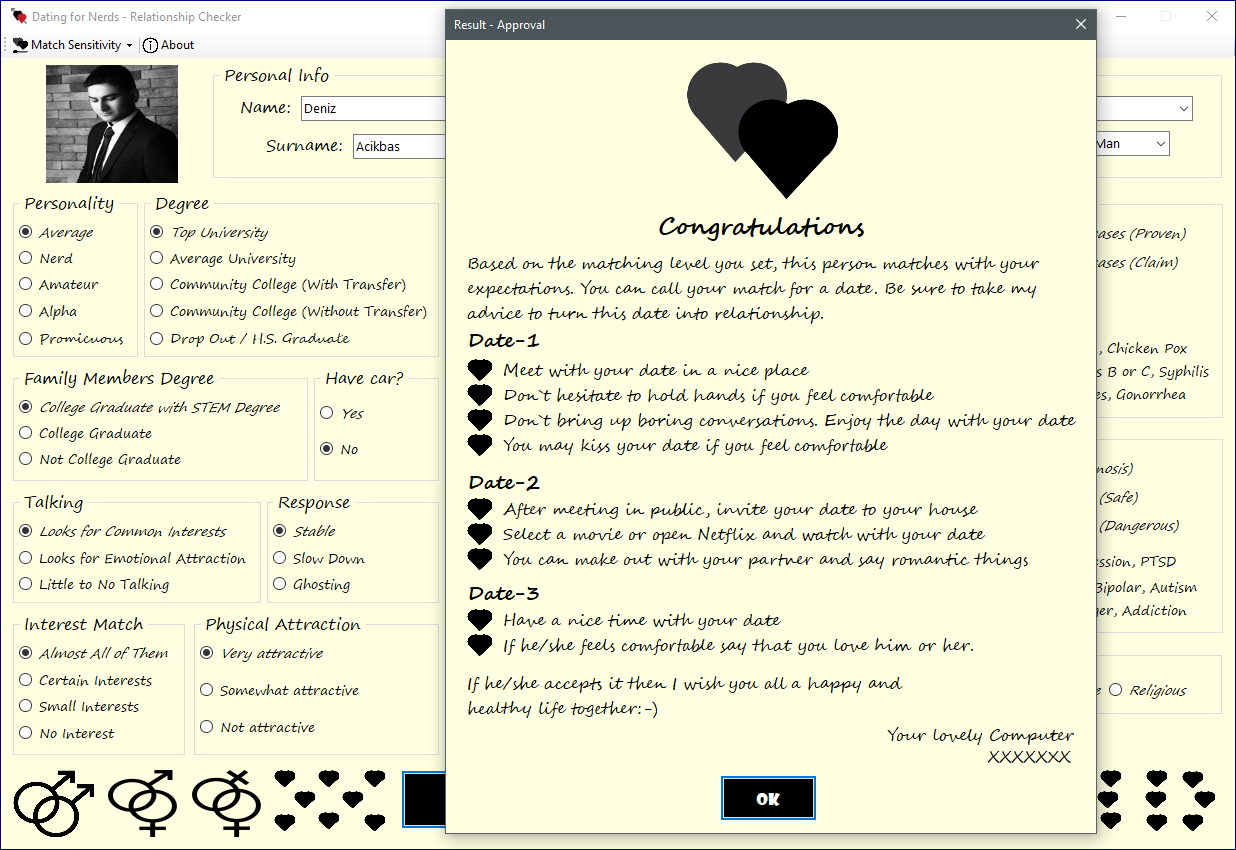
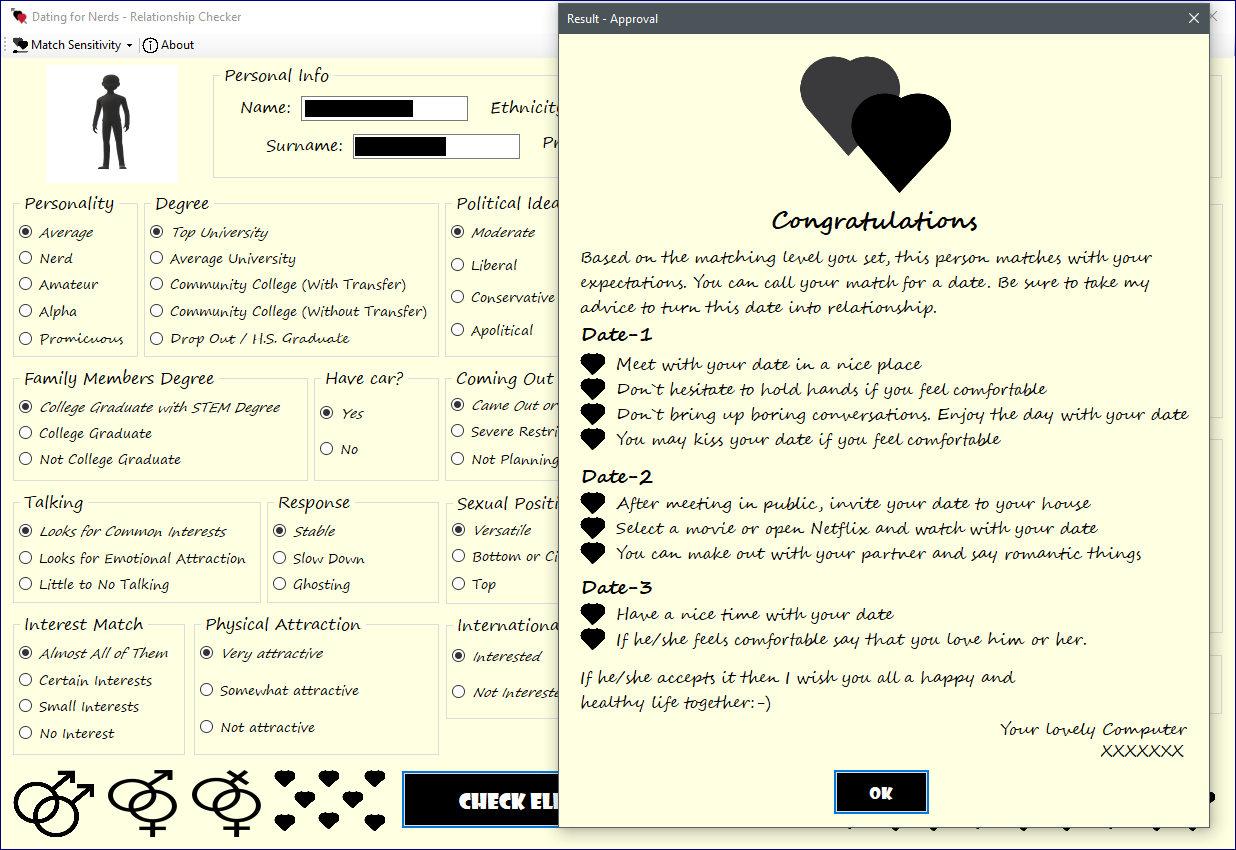
commitment

Changed region(s): [[0.246, 0.0, 0.9838, 1.0], [0.0307, 0.0612, 0.1537, 0.2141]]

diff --git a/projects.html b/projects.html
@@ -23,161 +23,187 @@
         <li id="list"><a href="resume.html">Resume</a></li>
         <li style="float:right"><a class="deniz" href="index.html">Deniz K Acikbas</a></li>
     </ul>
-        <img style="margin-bottom: 0;" src="projects/xase.png" class="center ">
-        <div class="xase">
-            <h1 style="color:white; font-size: 50px;  margin-bottom: 0;">Xase</h1>
-            <p style="color: white; font-size: 20px;   margin: 0; padding-top: 0;"><b>Developers Without Limits Studio</b></p>
-            <p style="color: white; font-size: 16px;   margin: 0; padding-top: 0;"><em>Released in August 8th 2021</em></p>
-            <ul class="about" style="color:white; font-size: 20px;">
-                <li>Analyzed the information provided by Summer 2021 Studio applicants and conducted a research about the verification of applicants.</li>
-                <li>Collaborated as Front-End and Back-End developer while other developers were working on UI and Database Design to build a database program which helps employers to select the best candidate for software engineering positions.</li>
-                <li>Developed DataGrind View, Eligibility Checker, Applicant Selector, Search/Sort and Tooltips using Windows Forms, MySQL and C#.</li>
-                <li>Published the project on GitHub.</li>
-            </ul>
-            <a href="https://github.com/Developers-Without-Limits-Studio/Xase" class="button">See the project</a>
-        </div>
-        <img style="margin-bottom: 0;" src="projects/children_market.png" class="center_2">
-        <div class="xase">
-            <h1 style="color:white; font-size: 50px;  margin-bottom: 0;">Children`s Market</h1>
-            <p style="color: white; font-size: 20px;   margin: 0; padding-top: 0;"><b>SelfieHacks, Major League Hacking </b></p>
-            <p style="color: white; font-size: 16px;   margin: 0; padding-top: 0;"><em>Released in August 1st 2021</em></p>
-            <ul class="about" style="color:white; font-size: 20px;">
-                <li>Developed a simple cashier software for kids who are selling fruits and vegetables on the street to help them to learn how to calculate the price with taxes, register each product, and print a receipt for their customers.</li>
-                <li>Collaborated as a full-stack developer.</li>
-                <li>Developed the project in Windows Forms, MySQL, and C# and published on Devpost and GitHub.</li>
-            </ul>
-            <a href="https://github.com/denizkarya1999/children_market_cashier_software" class="button">See the project</a>
-        </div>
-        <img style="margin-bottom: 0;" src="projects/hirex.png" class="center_2">
-        <div class="xase">
-            <h1 style="color:white; font-size: 50px;  margin-bottom: 0;">Hirex</h1>
-            <p style="color: white; font-size: 20px;   margin: 0; padding-top: 0;"><b>Personal Project</b></p>
-            <p style="color: white; font-size: 16px;   margin: 0; padding-top: 0;"><em>Released in July 30th 2021</em></p>
-            <ul class="about" style="color:white; font-size: 20px;">
-                <li>Conducted a research on the challenges that the underrepresented minority students face while getting a job and the skills that the companies look for when hiring.</li>
-                <li>Collaborated as Full Stack developer to build a database program for employers to hire underrepresented minority students easily for internship positions.</li>
-                <li>Developed the entire application using Windows Forms, MySQL and C#.</li>
-                <li>Published the project on GitHub.</li>
-            </ul>
-            <a href="https://github.com/denizkarya1999/hirex" class="button">See the project</a>
-        </div>
-        <img style="margin-bottom: 0;" src="projects/90_music.png" class="center_2">
-        <div class="xase">
-            <h1 style="color:white; font-size: 50px;  margin-bottom: 0;">90`s Music</h1>
-            <p style="color: white; font-size: 20px;   margin: 0; padding-top: 0;"><b>Personal Project</b></p>
-            <p style="color: white; font-size: 16px;   margin: 0; padding-top: 0;"><em>Released in July 24th 2021</em></p>
-            <ul class="about" style="color:white; font-size: 20px;">
-                <li>Brainstormed on a kiosk application which plays music released between 1990 and 1993 and provides information about each artist.</li>
-                <li>Collaborated as both Front-End and Back-End developer.</li>
-                <li>Developed the entire application using XAML, UWP and C#.</li>
-                <li>Published the project on GitHub.</li>
-            </ul>
-            <a href="https://github.com/denizkarya1999/90-s-Music" class="button">See the project</a>
-        </div>
-        <img style="margin-bottom: 0;" src="projects/travelery.png" class="center_2">
-        <div class="xase">
-            <h1 style="color:white; font-size: 50px;  margin-bottom: 0;">Travelery</h1>
-            <p style="color: white; font-size: 20px;   margin: 0; padding-top: 0;"><b>Bon Voyage Hacks, Major League Hacking</b></p>
-            <p style="color: white; font-size: 16px;   margin: 0; padding-top: 0;"><em>Released in July 18th 2021</em></p>
-            <ul class="about" style="color:white; font-size: 20px;">
-                <li>Brainstormed on a travel application to make international travel more convenient by providing users a map of popular landmarks, flight and customs videos and a To-Do list.</li>
-                <li>Collaborated as both Front-End and Back-End developer to build most parts of the application while the other team member was building the To-Do List page.</li>
-                <li>Created Home, Maps and Videos pages specifically for the UK, USA and Turkey using XAML, UWP and C#.</li>
-                <li>Published the project on both Devpost and GitHub.</li>
-            </ul>
-            <a href="https://github.com/denizkarya1999/Travelery" class="button">See the project</a>
-        </div>
-        <img style="margin-bottom: 0;" src="projects/husky.jpg" class="center_2">
-        <div class="xase">
-            <h1 style="color:white; font-size: 50px;  margin-bottom: 0;">Project Husky</h1>
-            <p style="color: white; font-size: 20px;   margin: 0; padding-top: 0;"><b>Developers Without Limits Studio</b></p>
-            <p style="color: white; font-size: 16px;   margin: 0; padding-top: 0;"><em>Released in June 30th 2021</em></p>
-            <ul class="about" style="color:white; font-size: 20px;">
-                <li>Founded the University of Michigan-Dearborn`s first app development studio.</li>
-                <li>Managed a team of 14 developers to build a financial application is designed with cryptocurrency investors in mind.</li>
-                <li>Created 12 UI Mockups and 8 application pages using Adobe XD, XAML, UWP and C#.</li>
-                <li>Achieved team management skills while leading the studio.</li>
-            </ul>
-            <a href="https://github.com/Developers-Without-Limits-Studio/project-husky" class="button">See the project</a>
-        </div>
-        <img style="margin-bottom: 0;" src="projects/queer.png" class="center_2">
-        <div class="xase">
-            <h1 style="color:white; font-size: 50px;  margin-bottom: 0;">Queer Hub</h1>
-            <p style="color: white; font-size: 20px;   margin: 0; padding-top: 0;"><b>PrideHacks, Major League Hacking</b></p>
-            <p style="color: white; font-size: 16px;   margin: 0; padding-top: 0;"><em>Released in June 27th 2021</em></p>
-            <ul class="about" style="color:white; font-size: 20px;">
-                <li>Brianstormed on an application to provide LGBTQ+ individuals some safety videos, list of safe countries, tips to come out and STD prevention services.</li>
-                <li>Collaborated as both Front-End and Back-End developer and helped the other team member to transition from Kotlin to C#.</li>
-                <li>Created Safety Videos, Safe Country List, Coming Out Advisor and STD Risk Calculator pages using XAML, UWP and C#.</li>
-                <li>Published the project on both Devpost and GitHub.</li>
-            </ul>
-            <a href="https://github.com/denizkarya1999/queer_hub" class="button">See the project</a>
-        </div>
-        <img style="margin-bottom: 0;" src="projects/math.png" class="center_2">
-        <div class="xase">
-            <h1 style="color:white; font-size: 50px;  margin-bottom: 0;">Math for Kids</h1>
-            <p style="color: white; font-size: 20px;   margin: 0; padding-top: 0;"><b>Surfs Up Hacks, Major League Hacking</b></p>
-            <p style="color: white; font-size: 16px;   margin: 0; padding-top: 0;"><em>Released in June 13th 2021</em></p>
-            <ul class="about" style="color:white; font-size: 20px;">
-                <li>Brainstormed on a math application to help children to learn math by generating problems and giving scores based on the problems they solved.</li>
-                <li>Collaborated as both Front-End and Back-End developer and helped the other team member to learn .NET Framework and C#</li>
-                <li>Created the Calculator, Inkspace and About using XAML, UWP and C#.</li>
-                <li>Published the project on both Devpost and GitHub.</li>
-            </ul>
-            <a href="https://github.com/denizkarya1999/math_for_kids" class="button">See the project</a>
-        </div>
-        <img style="margin-bottom: 0;" src="projects/calculator.png" class="center_2">
-        <div class="xase">
-            <h1 style="color:white; font-size: 50px;  margin-bottom: 0;">X Calculator</h1>
-            <p style="color: white; font-size: 20px;   margin: 0; padding-top: 0;"><b>Personal Project</b></p>
-            <p style="color: white; font-size: 16px;   margin: 0; padding-top: 0;"><em>Released in June 3th 2021</em></p>
-            <ul class="about" style="color:white; font-size: 20px;">
-                <li>Brainstormed on a simple desktop calculator to make calculations easier.</li>
-                <li>Collaborated both as Front-End and Back-End developer.</li>
-                <li>Developed the entire application using XAML, WPF and C#.</li>
-                <li>Published the project on GitHub.</li>
-            </ul>
-            <a href="https://github.com/denizkarya1999/x_calculator" class="button">See the project</a>
-        </div>
-        <img style="margin-bottom: 0;" src="projects/covid.png" class="center_2">
-        <div class="xase">
-            <h1 style="color:white; font-size: 50px;  margin-bottom: 0;">COVID-19 Risk Calculator</h1>
-            <p style="color: white; font-size: 20px;   margin: 0; padding-top: 0;"><b>Hack-cade, Major League Hacking</b></p>
-            <p style="color: white; font-size: 16px;   margin: 0; padding-top: 0;"><em>Released in May 30th 2021</em></p>
-            <ul class="about" style="color:white; font-size: 20px;">
-                <li>Conducted research on transmission of COVID-19 Disease and analyzed the likelihood of transmission based on certain activities, case reports and prevention methods.</li>
-                <li>Collaborated as both Front-End and Back-End developer.</li>
-                <li>Developed a multi form application that has the user enter potential exposure and analyzes the risk to determine if the user should get tested or not using XAML, UWP and C#.</li>
-                <li>Published the project on GitHub.</li>
-            </ul>
-            <a href="https://github.com/denizkarya1999/covid-19_risk_calculator" class="button">See the project</a>
-        </div>
-        <img style="margin-bottom: 0;" src="projects/std.png" class="center_2">
-        <div class="xase">
-            <h1 style="color:white; font-size: 50px;  margin-bottom: 0;">STD Risk Calculator</h1>
-            <p style="color: white; font-size: 20px;   margin: 0; padding-top: 0;"><b>Personal Project</b></p>
-            <p style="color: white; font-size: 16px;   margin: 0; padding-top: 0;"><em>Released in May 27th 2021</em></p>
-            <ul class="about" style="color:white; font-size: 20px;">
-                <li>Conducted research on transmission of sexually transmitted diseases and analyzed the likelihood of transmission based on certain sexual activities, case reports and prevention methods.</li>
-                <li>Collaborated as both Front-End and Back-End developer.</li>
-                <li>Developed a multi form application that has the user enter potential exposure and analyzes the risk to determine if the user should get tested or not using XAML, UWP and C#.</li>
-                <li>Published the project on both Devpost and GitHub.</li>
-            </ul>
-            <a href="https://github.com/denizkarya1999/std_risk_calculator" class="button">See the project</a>
-        </div>
-        <img style="margin-bottom: 0;" src="projects/player.png" class="center_2">
-        <div class="xase">
-            <h1 style="color:white; font-size: 50px;  margin-bottom: 0;">X Player</h1>
-            <p style="color: white; font-size: 20px;   margin: 0; padding-top: 0;"><b>Personal Project</b></p>
-            <p style="color: white; font-size: 16px;   margin: 0; padding-top: 0;"><em>Released in May 21st 2021</em></p>
-            <ul class="about" style="color:white; font-size: 20px;">
-                <li>Brainstormed on a simple media player to select music from local drive and play when having a shower.</li>
-                <li>Collaborated both as Front-End and Back-End developer.</li>
-                <li>Developed the entire application using Windows Forms and C#.</li>
-                <li>Published the project on GitHub.</li>
-            </ul>
-            <a href="https://github.com/denizkarya1999/x_player" class="button">See the project</a>
-        </div>
+    <img style="margin-bottom: 0;" src="projects/password_generator.png" class="center ">
+    <div class="xase">
+        <h1 style="color:white; font-size: 50px;  margin-bottom: 0;">Password Generator</h1>
+        <p style="color: white; font-size: 20px;   margin: 0; padding-top: 0;"><b>Personal Project</b></p>
+        <p style="color: white; font-size: 16px;   margin: 0; padding-top: 0;"><em>Released in May 5th 2022</em></p>
+        <ul class="about" style="color:white; font-size: 20px;">
+            <li>Inspired from the coding challenges and built-in password generators on my PC.</li>
+            <li>Collaborated as both Front-End and Back-End developer.</li>
+            <li>Developed the entire application using Windows Forms and C#.</li>
+            <li>Published the project on GitHub.</li>
+        </ul>
+        <a href="https://github.com/denizkarya1999/password_generator" class="button">See the project</a>
+    </div>
+    <img style="margin-bottom: 0;" src="projects/dating.png" class="center ">
+    <div class="xase">
+        <h1 style="color:white; font-size: 50px;  margin-bottom: 0;">Dating for Nerds</h1>
+        <p style="color: white; font-size: 20px;   margin: 0; padding-top: 0;"><b>Personal Project</b></p>
+        <p style="color: white; font-size: 16px;   margin: 0; padding-top: 0;"><em>Released in January 22nd 2022</em></p>
+        <ul class="about" style="color:white; font-size: 20px;">
+            <li>Conducted research on people who use dating apps to find their partner.</li>
+            <li>Collaborated as Full Stack developer to build a program to help people select their partners based on certain criteria's such as their college degree, profits and text responds.</li>
+            <li>Developed the entire application using Windows Forms and C#.</li>
+            <li>Published the project on GitHub.</li>
+        </ul>
+        <a href="https://github.com/denizkarya1999/dating_for_nerds" class="button">See the project</a>
+    </div>
+    <img style="margin-bottom: 0;" src="projects/xase.png" class="center ">
+    <div class="xase">
+        <h1 style="color:white; font-size: 50px;  margin-bottom: 0;">Xase</h1>
+        <p style="color: white; font-size: 20px;   margin: 0; padding-top: 0;"><b>Developers Without Limits Studio</b></p>
+        <p style="color: white; font-size: 16px;   margin: 0; padding-top: 0;"><em>Released in August 8th 2021</em></p>
+        <ul class="about" style="color:white; font-size: 20px;">
+            <li>Analyzed the information provided by Summer 2021 Studio applicants and conducted a research about the verification of applicants.</li>
+            <li>Collaborated as Front-End and Back-End developer while other developers were working on UI and Database Design to build a database program which helps employers to select the best candidate for software engineering positions.</li>
+            <li>Developed DataGrind View, Eligibility Checker, Applicant Selector, Search/Sort and Tooltips using Windows Forms, MySQL and C#.</li>
+            <li>Published the project on GitHub.</li>
+        </ul>
+        <a href="https://github.com/Developers-Without-Limits-Studio/Xase" class="button">See the project</a>
+    </div>
+    <img style="margin-bottom: 0;" src="projects/children_market.png" class="center_2">
+    <div class="xase">
+        <h1 style="color:white; font-size: 50px;  margin-bottom: 0;">Children`s Market</h1>
+        <p style="color: white; font-size: 20px;   margin: 0; padding-top: 0;"><b>SelfieHacks, Major League Hacking </b></p>
+        <p style="color: white; font-size: 16px;   margin: 0; padding-top: 0;"><em>Released in August 1st 2021</em></p>
+        <ul class="about" style="color:white; font-size: 20px;">
+            <li>Developed a simple cashier software for kids who are selling fruits and vegetables on the street to help them to learn how to calculate the price with taxes, register each product, and print a receipt for their customers.</li>
+            <li>Collaborated as a full-stack developer.</li>
+            <li>Developed the project in Windows Forms, MySQL, and C# and published on Devpost and GitHub.</li>
+        </ul>
+        <a href="https://github.com/denizkarya1999/children_market_cashier_software" class="button">See the project</a>
+    </div>
+    <img style="margin-bottom: 0;" src="projects/hirex.png" class="center_2">
+    <div class="xase">
+        <h1 style="color:white; font-size: 50px;  margin-bottom: 0;">Hirex</h1>
+        <p style="color: white; font-size: 20px;   margin: 0; padding-top: 0;"><b>Personal Project</b></p>
+        <p style="color: white; font-size: 16px;   margin: 0; padding-top: 0;"><em>Released in July 30th 2021</em></p>
+        <ul class="about" style="color:white; font-size: 20px;">
+            <li>Conducted a research on the challenges that the underrepresented minority students face while getting a job and the skills that the companies look for when hiring.</li>
+            <li>Collaborated as Full Stack developer to build a database program for employers to hire underrepresented minority students easily for internship positions.</li>
+            <li>Developed the entire application using Windows Forms, MySQL and C#.</li>
+            <li>Published the project on GitHub.</li>
+        </ul>
+        <a href="https://github.com/denizkarya1999/hirex" class="button">See the project</a>
+    </div>
+    <img style="margin-bottom: 0;" src="projects/90_music.png" class="center_2">
+    <div class="xase">
+        <h1 style="color:white; font-size: 50px;  margin-bottom: 0;">90`s Music</h1>
+        <p style="color: white; font-size: 20px;   margin: 0; padding-top: 0;"><b>Personal Project</b></p>
+        <p style="color: white; font-size: 16px;   margin: 0; padding-top: 0;"><em>Released in July 24th 2021</em></p>
+        <ul class="about" style="color:white; font-size: 20px;">
+            <li>Brainstormed on a kiosk application which plays music released between 1990 and 1993 and provides information about each artist.</li>
+            <li>Collaborated as both Front-End and Back-End developer.</li>
+            <li>Developed the entire application using XAML, UWP and C#.</li>
+            <li>Published the project on GitHub.</li>
+        </ul>
+        <a href="https://github.com/denizkarya1999/90-s-Music" class="button">See the project</a>
+    </div>
+    <img style="margin-bottom: 0;" src="projects/travelery.png" class="center_2">
+    <div class="xase">
+        <h1 style="color:white; font-size: 50px;  margin-bottom: 0;">Travelery</h1>
+        <p style="color: white; font-size: 20px;   margin: 0; padding-top: 0;"><b>Bon Voyage Hacks, Major League Hacking</b></p>
+        <p style="color: white; font-size: 16px;   margin: 0; padding-top: 0;"><em>Released in July 18th 2021</em></p>
+        <ul class="about" style="color:white; font-size: 20px;">
+            <li>Brainstormed on a travel application to make international travel more convenient by providing users a map of popular landmarks, flight and customs videos and a To-Do list.</li>
+            <li>Collaborated as both Front-End and Back-End developer to build most parts of the application while the other team member was building the To-Do List page.</li>
+            <li>Created Home, Maps and Videos pages specifically for the UK, USA and Turkey using XAML, UWP and C#.</li>
+            <li>Published the project on both Devpost and GitHub.</li>
+        </ul>
+        <a href="https://github.com/denizkarya1999/Travelery" class="button">See the project</a>
+    </div>
+    <img style="margin-bottom: 0;" src="projects/husky.jpg" class="center_2">
+    <div class="xase">
+        <h1 style="color:white; font-size: 50px;  margin-bottom: 0;">Project Husky</h1>
+        <p style="color: white; font-size: 20px;   margin: 0; padding-top: 0;"><b>Developers Without Limits Studio</b></p>
+        <p style="color: white; font-size: 16px;   margin: 0; padding-top: 0;"><em>Released in June 30th 2021</em></p>
+        <ul class="about" style="color:white; font-size: 20px;">
+            <li>Founded the University of Michigan-Dearborn`s first app development studio.</li>
+            <li>Managed a team of 14 developers to build a financial application is designed with cryptocurrency investors in mind.</li>
+            <li>Created 12 UI Mockups and 8 application pages using Adobe XD, XAML, UWP and C#.</li>
+            <li>Achieved team management skills while leading the studio.</li>
+        </ul>
+        <a href="https://github.com/Developers-Without-Limits-Studio/project-husky" class="button">See the project</a>
+    </div>
+    <img style="margin-bottom: 0;" src="projects/queer.png" class="center_2">
+    <div class="xase">
+        <h1 style="color:white; font-size: 50px;  margin-bottom: 0;">Queer Hub</h1>
+        <p style="color: white; font-size: 20px;   margin: 0; padding-top: 0;"><b>PrideHacks, Major League Hacking</b></p>
+        <p style="color: white; font-size: 16px;   margin: 0; padding-top: 0;"><em>Released in June 27th 2021</em></p>
+        <ul class="about" style="color:white; font-size: 20px;">
+            <li>Brianstormed on an application to provide LGBTQ+ individuals some safety videos, list of safe countries, tips to come out and STD prevention services.</li>
+            <li>Collaborated as both Front-End and Back-End developer and helped the other team member to transition from Kotlin to C#.</li>
+            <li>Created Safety Videos, Safe Country List, Coming Out Advisor and STD Risk Calculator pages using XAML, UWP and C#.</li>
+            <li>Published the project on both Devpost and GitHub.</li>
+        </ul>
+        <a href="https://github.com/denizkarya1999/queer_hub" class="button">See the project</a>
+    </div>
+    <img style="margin-bottom: 0;" src="projects/math.png" class="center_2">
+    <div class="xase">
+        <h1 style="color:white; font-size: 50px;  margin-bottom: 0;">Math for Kids</h1>
+        <p style="color: white; font-size: 20px;   margin: 0; padding-top: 0;"><b>Surfs Up Hacks, Major League Hacking</b></p>
+        <p style="color: white; font-size: 16px;   margin: 0; padding-top: 0;"><em>Released in June 13th 2021</em></p>
+        <ul class="about" style="color:white; font-size: 20px;">
+            <li>Brainstormed on a math application to help children to learn math by generating problems and giving scores based on the problems they solved.</li>
+            <li>Collaborated as both Front-End and Back-End developer and helped the other team member to learn .NET Framework and C#</li>
+            <li>Created the Calculator, Inkspace and About using XAML, UWP and C#.</li>
+            <li>Published the project on both Devpost and GitHub.</li>
+        </ul>
+        <a href="https://github.com/denizkarya1999/math_for_kids" class="button">See the project</a>
+    </div>
+    <img style="margin-bottom: 0;" src="projects/calculator.png" class="center_2">
+    <div class="xase">
+        <h1 style="color:white; font-size: 50px;  margin-bottom: 0;">X Calculator</h1>
+        <p style="color: white; font-size: 20px;   margin: 0; padding-top: 0;"><b>Personal Project</b></p>
+        <p style="color: white; font-size: 16px;   margin: 0; padding-top: 0;"><em>Released in June 3th 2021</em></p>
+        <ul class="about" style="color:white; font-size: 20px;">
+            <li>Brainstormed on a simple desktop calculator to make calculations easier.</li>
+            <li>Collaborated both as Front-End and Back-End developer.</li>
+            <li>Developed the entire application using XAML, WPF and C#.</li>
+            <li>Published the project on GitHub.</li>
+        </ul>
+        <a href="https://github.com/denizkarya1999/x_calculator" class="button">See the project</a>
+    </div>
+    <img style="margin-bottom: 0;" src="projects/covid.png" class="center_2">
+    <div class="xase">
+        <h1 style="color:white; font-size: 50px;  margin-bottom: 0;">COVID-19 Risk Calculator</h1>
+        <p style="color: white; font-size: 20px;   margin: 0; padding-top: 0;"><b>Hack-cade, Major League Hacking</b></p>
+        <p style="color: white; font-size: 16px;   margin: 0; padding-top: 0;"><em>Released in May 30th 2021</em></p>
+        <ul class="about" style="color:white; font-size: 20px;">
+            <li>Conducted research on transmission of COVID-19 Disease and analyzed the likelihood of transmission based on certain activities, case reports and prevention methods.</li>
+            <li>Collaborated as both Front-End and Back-End developer.</li>
+            <li>Developed a multi form application that has the user enter potential exposure and analyzes the risk to determine if the user should get tested or not using XAML, UWP and C#.</li>
+            <li>Published the project on GitHub.</li>
+        </ul>
+        <a href="https://github.com/denizkarya1999/covid-19_risk_calculator" class="button">See the project</a>
+    </div>
+    <img style="margin-bottom: 0;" src="projects/std.png" class="center_2">
+    <div class="xase">
+        <h1 style="color:white; font-size: 50px;  margin-bottom: 0;">STD Risk Calculator</h1>
+        <p style="color: white; font-size: 20px;   margin: 0; padding-top: 0;"><b>Personal Project</b></p>
+        <p style="color: white; font-size: 16px;   margin: 0; padding-top: 0;"><em>Released in May 27th 2021</em></p>
+        <ul class="about" style="color:white; font-size: 20px;">
+            <li>Conducted research on transmission of sexually transmitted diseases and analyzed the likelihood of transmission based on certain sexual activities, case reports and prevention methods.</li>
+            <li>Collaborated as both Front-End and Back-End developer.</li>
+            <li>Developed a multi form application that has the user enter potential exposure and analyzes the risk to determine if the user should get tested or not using XAML, UWP and C#.</li>
+            <li>Published the project on both Devpost and GitHub.</li>
+        </ul>
+        <a href="https://github.com/denizkarya1999/std_risk_calculator" class="button">See the project</a>
+    </div>
+    <img style="margin-bottom: 0;" src="projects/player.png" class="center_2">
+    <div class="xase">
+        <h1 style="color:white; font-size: 50px;  margin-bottom: 0;">X Player</h1>
+        <p style="color: white; font-size: 20px;   margin: 0; padding-top: 0;"><b>Personal Project</b></p>
+        <p style="color: white; font-size: 16px;   margin: 0; padding-top: 0;"><em>Released in May 21st 2021</em></p>
+        <ul class="about" style="color:white; font-size: 20px;">
+            <li>Brainstormed on a simple media player to select music from local drive and play when having a shower.</li>
+            <li>Collaborated both as Front-End and Back-End developer.</li>
+            <li>Developed the entire application using Windows Forms and C#.</li>
+            <li>Published the project on GitHub.</li>
+        </ul>
+        <a href="https://github.com/denizkarya1999/x_player" class="button">See the project</a>
+    </div>
     <img style="margin-bottom: 0;" src="projects/safety.png" class="center_2">
     <div class="xase">
         <h1 style="color:white; font-size: 50px;  margin-bottom: 0;">Safety Doggo</h1>
